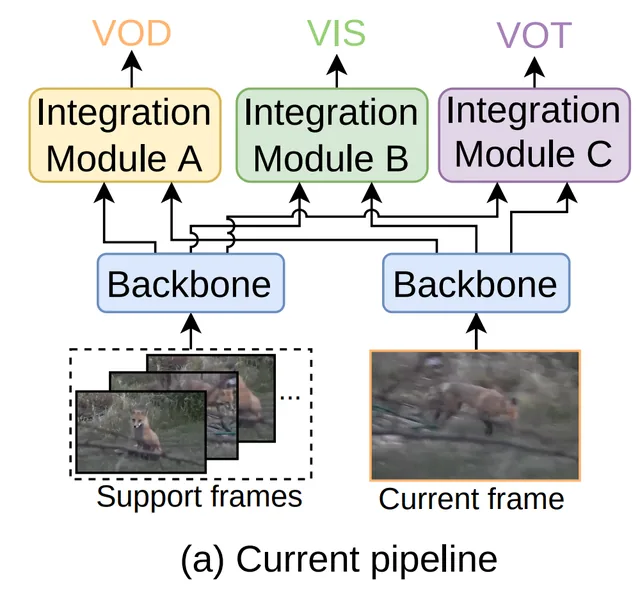
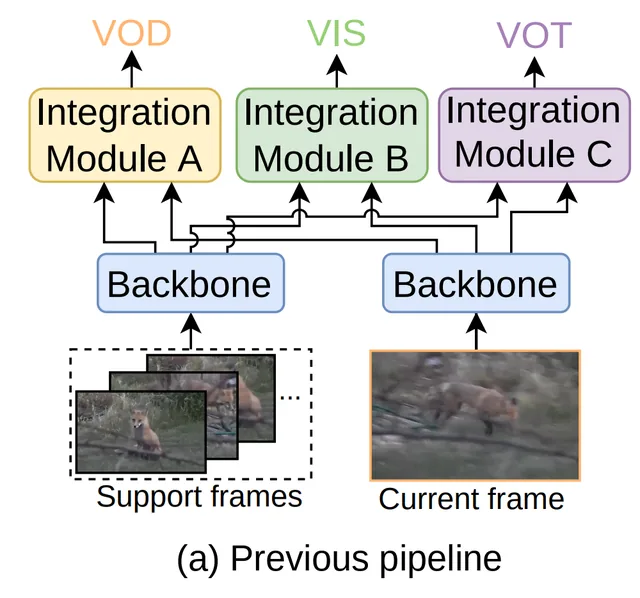
STPN: relabel panel (a) "Current pipeline" as "Previous pipeline"
Toggle labels and alt text on the homepage and STPN page, plus the label
baked into the derived panel image (repainted by tools/make_assets.py in
the figure's own face so it stays reproducible).

Claude-Session: https://claude.ai/code/session_01HJKzFLWYbaW3ygoWc896QC

Changed region(s): [[0.2812, 0.903, 0.7812, 0.9632]]

diff --git a/projects/stpn/index.html b/projects/stpn/index.html
@@ -132,7 +132,7 @@
     <div class="plate__head"><span class="plate__num">Fig. 1</span><span class="badge badge--paper">From the paper</span><button class="btn-icon st-zoom" type="button" data-ab-item="a" data-full="/assets/img/projects/stpn/stpn-a.webp" data-caption="(a) Prior pipelines: a backbone per frame plus a separate integration module for each task. Paper Fig. 1." aria-label="Enlarge figure: panel (a), current pipeline"><svg class="icon" width="16" height="16" aria-hidden="true" focusable="false"><use href="/assets/icons/sprite.svg#maximize-2"/></svg></button><button class="btn-icon st-zoom" type="button" data-ab-item="b" data-full="/assets/img/projects/stpn/stpn-b.webp" data-caption="(b) STPN: a DVP predictor turns support frames into video prompts at the backbone’s input. Paper Fig. 1." aria-label="Enlarge figure: panel (b), STPN"><svg class="icon" width="16" height="16" aria-hidden="true" focusable="false"><use href="/assets/icons/sprite.svg#maximize-2"/></svg></button></div>
     <fieldset class="seg ab__control">
       <legend class="visually-hidden">Show panel of the STPN figure</legend>
-      <label class="seg__opt"><input type="radio" name="stpn-hero-ab" value="a"><span>(a) Current pipeline</span></label>
+      <label class="seg__opt"><input type="radio" name="stpn-hero-ab" value="a"><span>(a) Previous pipeline</span></label>
       <label class="seg__opt"><input type="radio" name="stpn-hero-ab" value="b" checked><span>(b) STPN</span></label>
     </fieldset>
     <div class="plate__mat ab__stage">
@@ -140,7 +140,7 @@
            srcset="/assets/img/projects/stpn/stpn-a-640.webp 640w, /assets/img/projects/stpn/stpn-a.webp 1000w"
            sizes="(min-width: 600px) 36rem, calc(100vw - 32px)"
            width="1000" height="934" decoding="async"
-           alt="Panel (a), current pipeline: support frames and the blurred current frame each pass through a backbone, then tangled connections feed three separate integration modules, A for detection, B for segmentation and C for tracking.">
+           alt="Panel (a), previous pipeline: support frames and the blurred current frame each pass through a backbone, then tangled connections feed three separate integration modules, A for detection, B for segmentation and C for tracking.">
       <img class="ab__img" data-ab-item="b" src="/assets/img/projects/stpn/stpn-b.webp"
            srcset="/assets/img/projects/stpn/stpn-b-640.webp 640w, /assets/img/projects/stpn/stpn-b.webp 896w"
            sizes="(min-width: 600px) 36rem, calc(100vw - 32px)"

diff --git a/index.html b/index.html
@@ -283,7 +283,7 @@
         <div class="plate__head"><span class="plate__num">Plate II</span><span class="badge badge--paper">From the paper</span></div>
         <fieldset class="seg ab__control">
           <legend class="visually-hidden">Show panel of the STPN figure</legend>
-          <label class="seg__opt"><input type="radio" name="stpn-ab" value="a"><span>(a) Current pipeline</span></label>
+          <label class="seg__opt"><input type="radio" name="stpn-ab" value="a"><span>(a) Previous pipeline</span></label>
           <label class="seg__opt"><input type="radio" name="stpn-ab" value="b" checked><span>(b) STPN</span></label>
         </fieldset>
         <div class="plate__mat ab__stage">
@@ -291,7 +291,7 @@
                srcset="/assets/img/projects/stpn/stpn-a-640.webp 640w, /assets/img/projects/stpn/stpn-a.webp 1000w"
                sizes="(min-width: 1200px) 640px, (min-width: 1024px) 55vw, calc(100vw - 48px)"
                width="1000" height="934" loading="lazy" decoding="async"
-               alt="Panel (a), current pipeline: support frames and the blurred current frame each pass through a backbone, then tangled connections feed three separate integration modules, A for detection, B for segmentation and C for tracking.">
+               alt="Panel (a), previous pipeline: support frames and the blurred current frame each pass through a backbone, then tangled connections feed three separate integration modules, A for detection, B for segmentation and C for tracking.">
           <img class="ab__img" data-ab-item="b" src="/assets/img/projects/stpn/stpn-b.webp"
                srcset="/assets/img/projects/stpn/stpn-b-640.webp 640w, /assets/img/projects/stpn/stpn-b.webp 896w"
                sizes="(min-width: 1200px) 640px, (min-width: 1024px) 55vw, calc(100vw - 48px)"

diff --git a/tools/make_assets.py b/tools/make_assets.py
@@ -184,7 +184,7 @@ def cmd_figure(path: Path, frame: int = 0, out_dir: Path = IMG) -> None:
 # Crop boxes (left, top, right, bottom) in stpn.png pixels, measured on the
 # image: panel borders were located by colour and the anti-aliased edge
 # pixels excluded.
-STPN_A = (0, 0, 1000, 934)          # panel "(a) Current pipeline"; its content ends at x~985
+STPN_A = (0, 0, 1000, 934)          # panel (a), relabelled "Previous pipeline" below; its content ends at x~985
 STPN_B = (1040, 0, 1936, 934)       # panel "(b) STPN"; its content starts at x~1075
 # Inside the orange border of the motion-blurred "Current frame" in (b):
 # border at x 1497-1499 / 1824-1826, y 548-550 / 751-753 -> clean 1501-1822 x 552-749.
@@ -194,12 +194,31 @@ STPN_CURRENT = (1502, 552, 1822, 750)   # 320x198 (8x5 patch grid -> 40x39.6 px 
 STPN_SUPPORT = (1088, 620, 1286, 742)   # 198x122
 
 
+# The panel's baked-in caption "(a) Current pipeline" (dark pixels x 285-775, y 850-904 in the
+# crop) is repainted as "(a) Previous pipeline" in the figure's own face (Liberation Sans), centred
+# on the same point, so the site's toggle label and the picture agree.
+STPN_A_LABEL_BOX = (270, 840, 790, 915)
+STPN_A_LABEL = "(a) Previous pipeline"
+STPN_A_FONT = Path("/usr/share/fonts/truetype/liberation/LiberationSans-Regular.ttf")
+
+
+def relabel_stpn_a(a: Image.Image) -> Image.Image:
+    a = a.copy()
+    d = ImageDraw.Draw(a)
+    d.rectangle(STPN_A_LABEL_BOX, fill=(255, 255, 255))
+    font = ImageFont.truetype(str(STPN_A_FONT), 56)
+    l, t, r, _ = font.getbbox(STPN_A_LABEL)
+    cx = (285 + 775) / 2
+    d.text((cx - (r - l) / 2 - l, 850 - t), STPN_A_LABEL, font=font, fill=(0, 0, 0))
+    return a
+
+
 def build_stpn() -> None:
     src = REPO / "images" / "stpn.png"
     im = load_rgb(src)
     out = PROJ / "stpn"
     print(f"stpn  <- {rel(src)} ({im.width}x{im.height})")
-    a = im.crop(STPN_A)
+    a = relabel_stpn_a(im.crop(STPN_A))
     b = im.crop(STPN_B)
     save_webp(a, out / "stpn-a.webp")
     save_webp(fit_width(a, 640), out / "stpn-a-640.webp")
